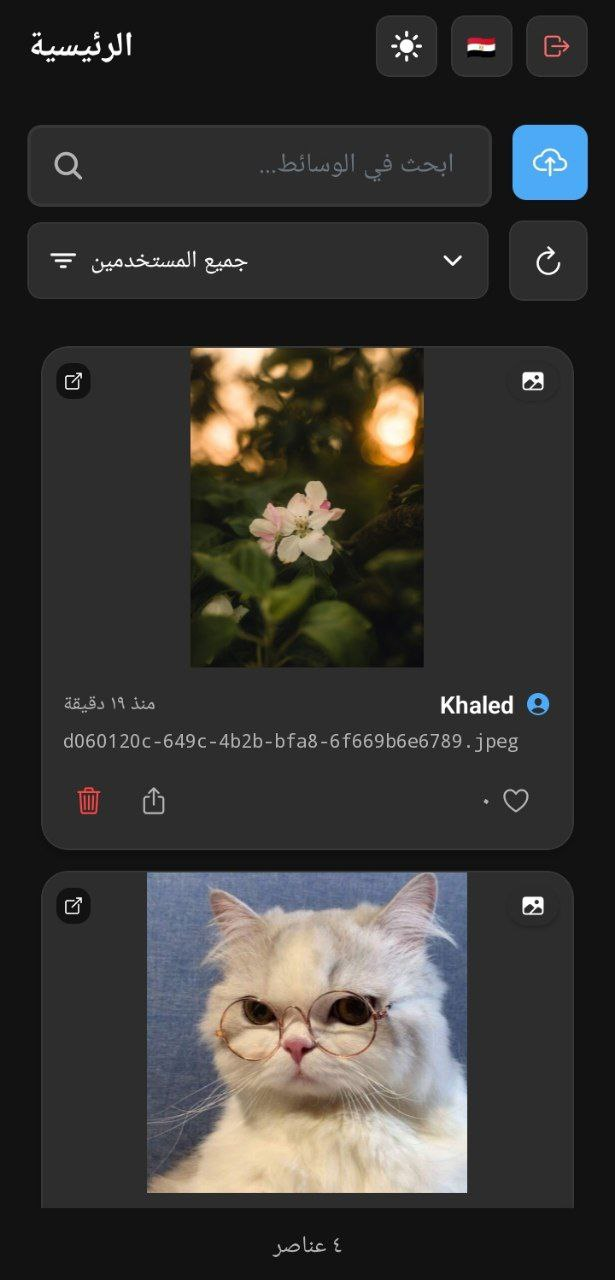
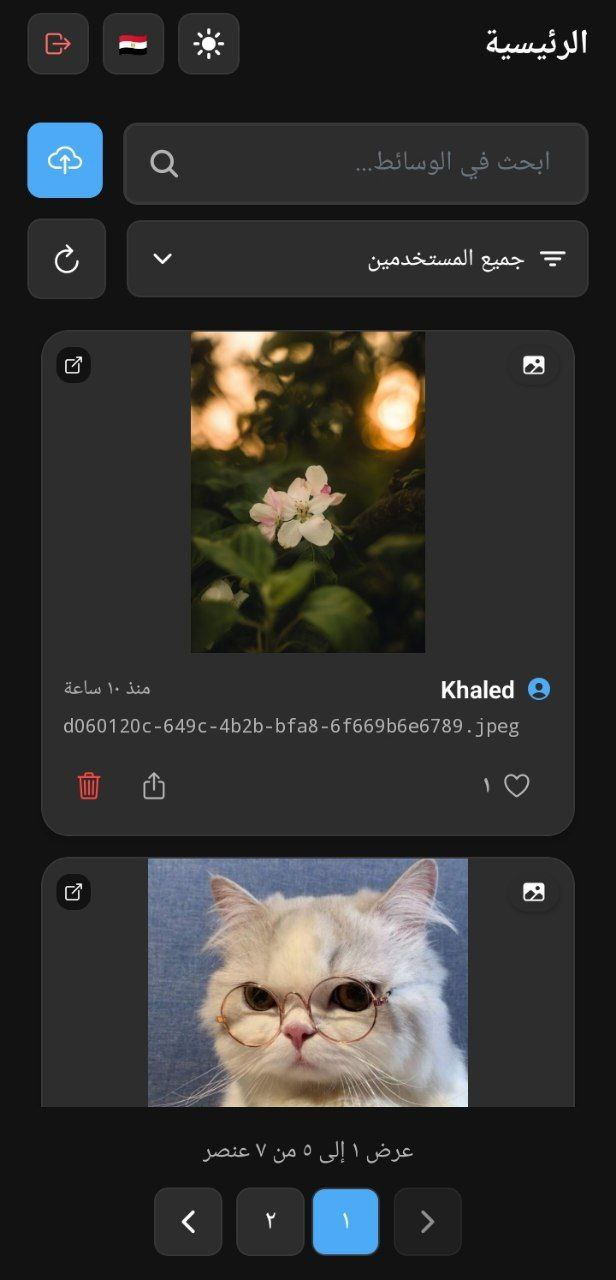
Replace mobile app screenshot in `README.md` after RTL fixes

diff --git a/frontend/index.html b/frontend/index.html
@@ -2,7 +2,7 @@
 <html lang="en">
   <head>
     <meta charset="UTF-8" />
-    <link rel="icon" type="image/x-icon" href="https://minly.com/static/favicon.ico" />
+    <link rel="icon" type="image/x-icon" href="assets/favicon.ico" />
     <meta name="viewport" content="width=device-width, initial-scale=1.0" />
     <title>Media Sharing Platform - Upload & Share Your Media</title>
   </head>

diff --git a/README.md b/README.md
@@ -1,7 +1,7 @@
 # Media Sharing Platform
 
-[![Deploy Backend to Fly.io](https://github.com/nooreldeensalah/Minly_Assesment/actions/workflows/deploy-backend.yml/badge.svg)](https://github.com/nooreldeensalah/Minly_Assesment/actions/workflows/deploy-backend.yml)
-[![Deploy Frontend to Fly.io](https://github.com/nooreldeensalah/Minly_Assesment/actions/workflows/deploy-frontend.yml/badge.svg)](https://github.com/nooreldeensalah/Minly_Assesment/actions/workflows/deploy-frontend.yml)
+[![Deploy Backend to Fly.io](https://github.com/nooreldeensalah/Media_Sharing_Platform/actions/workflows/deploy-backend.yml/badge.svg)](https://github.com/nooreldeensalah/Media_Sharing_Platform/actions/workflows/deploy-backend.yml)
+[![Deploy Frontend to Fly.io](https://github.com/nooreldeensalah/Media_Sharing_Platform/actions/workflows/deploy-frontend.yml/badge.svg)](https://github.com/nooreldeensalah/Media_Sharing_Platform/actions/workflows/deploy-frontend.yml)
 
 **Live Demo**: [Frontend](https://media-platform-frontend.fly.dev/) | [Backend API](https://media-platform-backend.fly.dev/)
 
@@ -169,8 +169,8 @@ To test the mobile application with the deployed backend:
 2. **Clone the repository:**
 
    ```bash
-   git clone https://github.com/nooreldeensalah/Minly_Assesmentt
-   cd Minly_Assesmentt/mobile
+   git clone https://github.com/nooreldeensalah/Media_Sharing_Platform
+   cd Media_Sharing_Platform/mobile
    ```
 
 3. **Install dependencies:**
